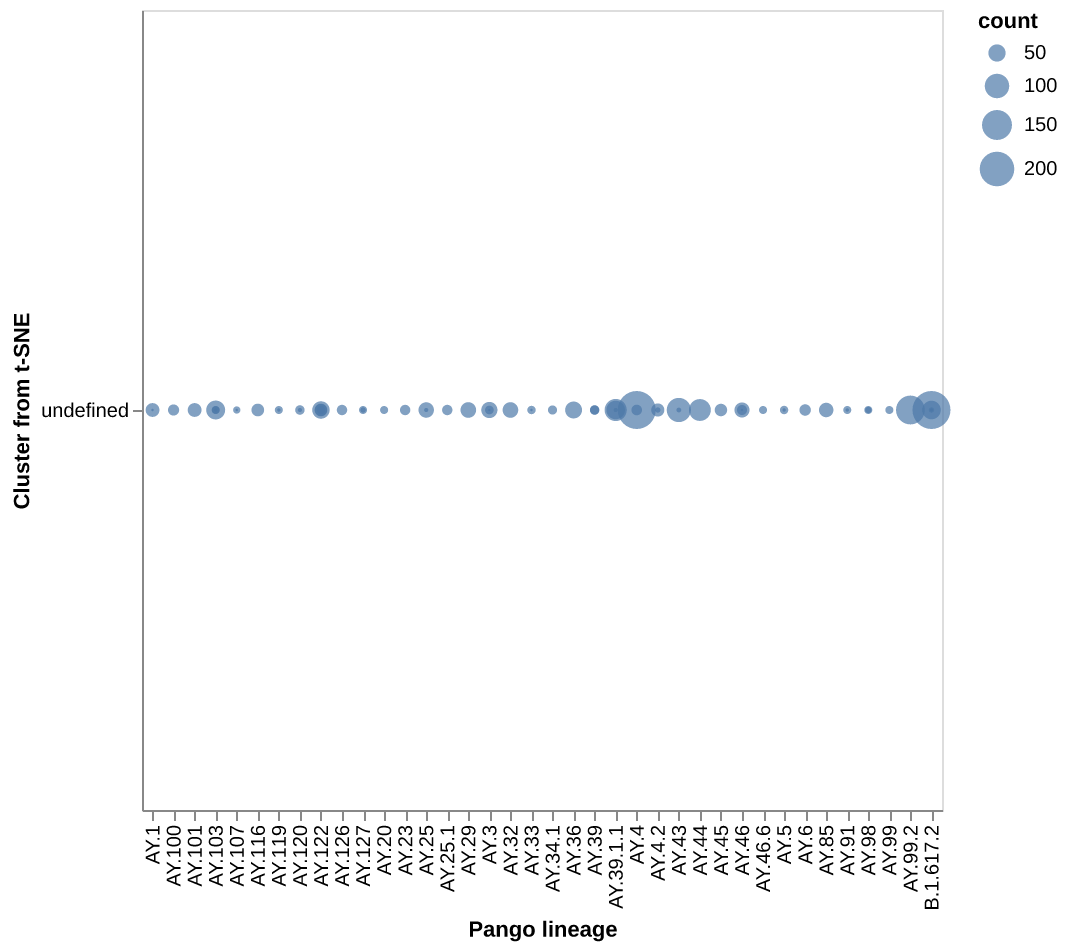
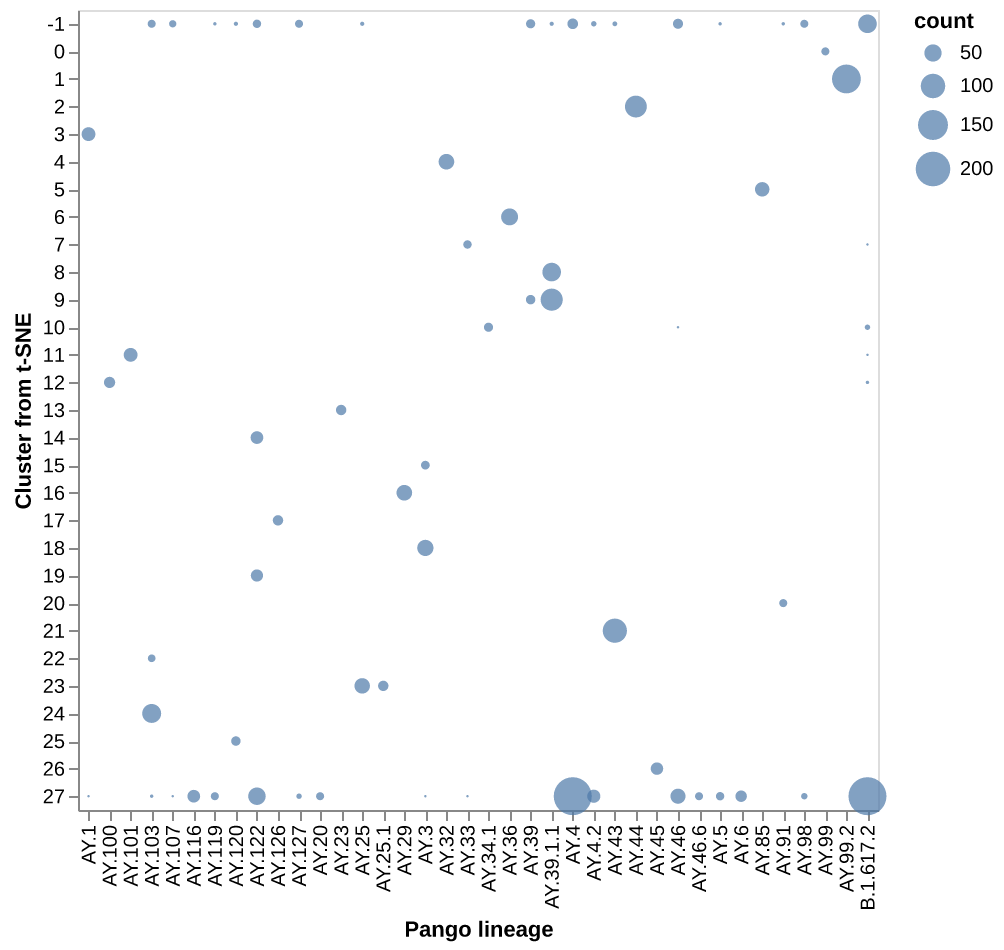
Fix f-string bug that linting would have caught

diff --git a/sars-cov-2-nextstrain/scripts/plot-single-clade-lineage-and-cluster-counts.py b/sars-cov-2-nextstrain/scripts/plot-single-clade-lineage-and-cluster-counts.py
@@ -19,7 +19,7 @@ if __name__ == "__main__":
 
     chart = alt.Chart(df).mark_circle().encode(
         x=alt.X(f"{args.lineage_column}:N", title="Pango lineage"),
-        y=alt.Y("{args.cluster_column}:N", title="Cluster from t-SNE"),
+        y=alt.Y(f"{args.cluster_column}:N", title="Cluster from t-SNE"),
         size="count:Q",
     ).properties(
         width=400,
